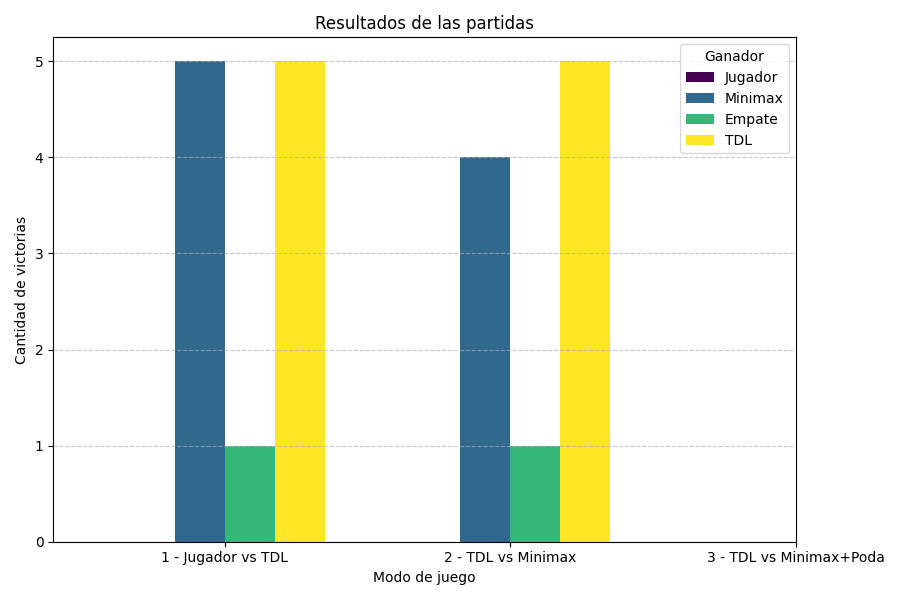
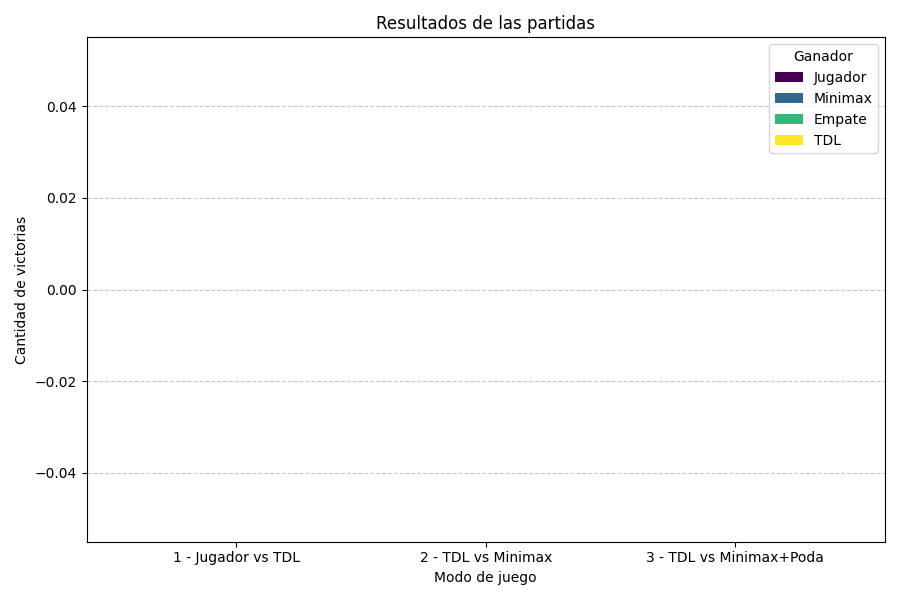
feat: automatization of plays

diff --git a/juego.py b/juego.py
@@ -3,23 +3,22 @@ import matplotlib.pyplot as plt
 from board_and_rules import Connect4, minimax
 from td_agent import TDAgent, train_td_agent
 
-
 RESULTADOS_FILE = "resultados.csv"
 
 
 def guardar_resultado(modo, ganador):
-    # Guarda el resultado de cada partida en un archivo CSV.
     try:
         df = pd.read_csv(RESULTADOS_FILE)
     except FileNotFoundError:
         df = pd.DataFrame(columns=["modo", "ganador"])
 
-    df = pd.concat([df, pd.DataFrame({"modo": [modo], "ganador": [ganador]})], ignore_index=True)
+    df = pd.concat(
+        [df, pd.DataFrame({"modo": [modo], "ganador": [ganador]})], ignore_index=True
+    )
     df.to_csv(RESULTADOS_FILE, index=False)
 
 
 def graficar_resultados():
-    # Genera y actualiza una gráfica con los resultados de las partidas.
     try:
         df = pd.read_csv(RESULTADOS_FILE)
     except FileNotFoundError:
@@ -28,11 +27,9 @@ def graficar_resultados():
 
     conteo = df.groupby(["modo", "ganador"]).size().unstack(fill_value=0)
 
-    # Modos de juego
     modos = ["1 - Jugador vs TDL", "2 - TDL vs Minimax", "3 - TDL vs Minimax+Poda"]
     ganadores = ["Jugador", "Minimax", "Empate", "TDL"]
 
-    # Asegurar que todas las combinaciones tengan valores (evita errores si no hay datos)
     for ganador in ganadores:
         if ganador not in conteo.columns:
             conteo[ganador] = 0
@@ -52,13 +49,54 @@ def graficar_resultados():
     plt.show()
 
 
+def jugar_modo_automatico(td_agent, modo, repeticiones=50):
+    game = Connect4()
+
+    for i in range(repeticiones):
+        print(f"\nPartida {i + 1} de {repeticiones} (Modo {modo})")
+        game.reset()
+        turn = 1
+
+        while True:
+            player = 1 if turn % 2 != 0 else 2
+
+            if player == 1:
+                valid_actions = game.get_valid_columns()
+                column = td_agent.select_action(game.board, valid_actions)
+            else:
+                use_alpha_beta = modo == "3"
+                column, _ = minimax(
+                    game,
+                    4,
+                    -float("inf"),
+                    float("inf"),
+                    True,
+                    player,
+                    use_alpha_beta,
+                )
+
+            game.drop_piece(column, player)
+
+            if game.check_winner(player):
+                print(f"Ganador: Jugador {player}")
+                guardar_resultado(modo, "TDL" if player == 1 else "Minimax")
+                break
+
+            if len(game.get_valid_columns()) == 0:
+                print("Empate")
+                guardar_resultado(modo, "Empate")
+                break
+
+            turn += 1
+
+
 def play_game():
     td_agent = TDAgent()
     game = Connect4()
 
     print("Agente de TD learning entrenando")
     train_td_agent(agent=td_agent, game=game, episodes=5000)
-    print("El agente a terminado de entrenar")
+    print("El agente ha terminado de entrenar")
 
     while True:
         game.reset()
@@ -68,11 +106,25 @@ def play_game():
         print("2 - IA (TDL) vs IA (Minimax sin poda)")
         print("3 - IA (TDL) vs IA (Minimax con poda)")
         print("4 - Ver gráficas")
+        print("5 - Exit")
+        print("6 - Simular 50 partidas (Modo 2 o 3)")
 
         mode = input("\nIngresa el número de la opción: ")
 
         if mode == "4":
             graficar_resultados()
+            continue
+
+        if mode == "5":
+            break
+
+        if mode == "6":
+            sim_mode = input("¿Simular Modo 2 o 3?: ").strip()
+            if sim_mode in ["2", "3"]:
+                jugar_modo_automatico(td_agent, sim_mode, repeticiones=50)
+                graficar_resultados()
+            else:
+                print("Modo inválido. Solo se permite 2 o 3.")
             continue
 
         turn = 1
@@ -81,9 +133,10 @@ def play_game():
             player = 1 if turn % 2 != 0 else 2
 
             if mode == "1" and player == 1:
-                # Modo 1: Jugador vs IA (TD Learning)
                 try:
-                    column = int(input(f"Jugador {player}, elige una columna (1-7): ")) - 1
+                    column = (
+                        int(input(f"Jugador {player}, elige una columna (1-7): ")) - 1
+                    )
                 except ValueError:
                     print("Entrada inválida. Intenta nuevamente.")
                     continue
@@ -99,18 +152,23 @@ def play_game():
                 game.drop_piece(column, player)
             else:
                 if (mode == "1" and player == 2) or mode in ["2", "3"]:
-                    # IA (TD Learning) juega
                     valid_actions = game.get_valid_columns()
                     column = td_agent.select_action(game.board, valid_actions)
                 else:
-                    # IA (Minimax) juega
                     use_alpha_beta = mode == "3"
-                    column, _ = minimax(game, 4, -float("inf"), float("inf"), True, player, use_alpha_beta)
+                    column, _ = minimax(
+                        game,
+                        4,
+                        -float("inf"),
+                        float("inf"),
+                        True,
+                        player,
+                        use_alpha_beta,
+                    )
 
                 print(f"Jugador {player} elige la columna: {column+1}")
                 game.drop_piece(column, player)
 
-            # Verificar ganador
             if game.check_winner(player):
                 game.print_board()
                 print(f"¡Jugador {player} ha ganado!")
